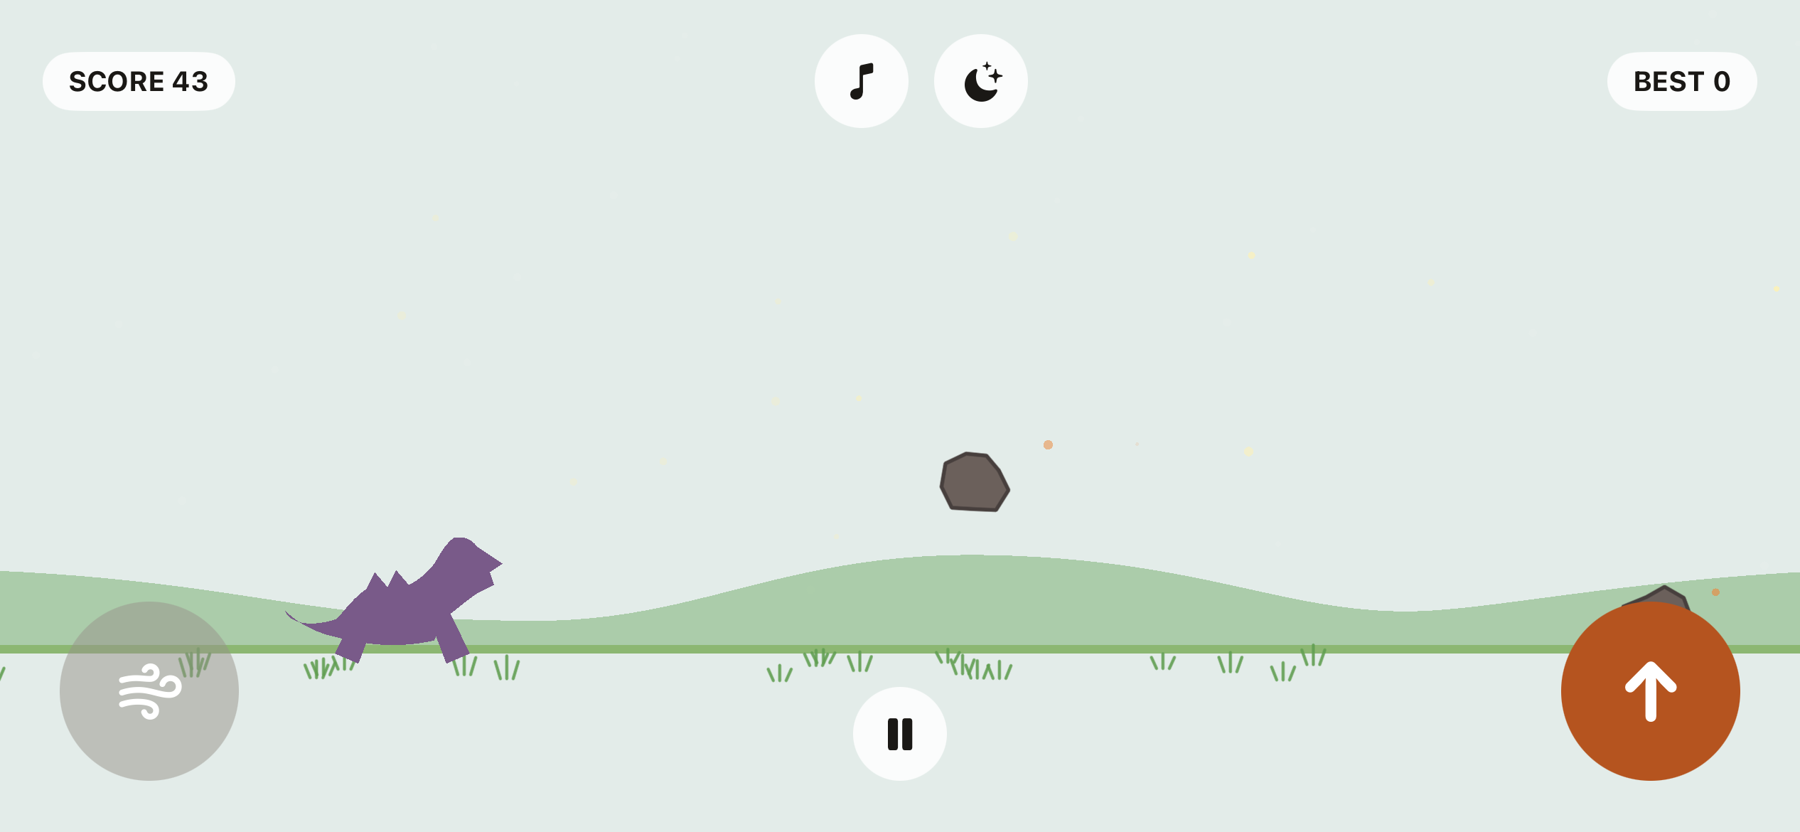
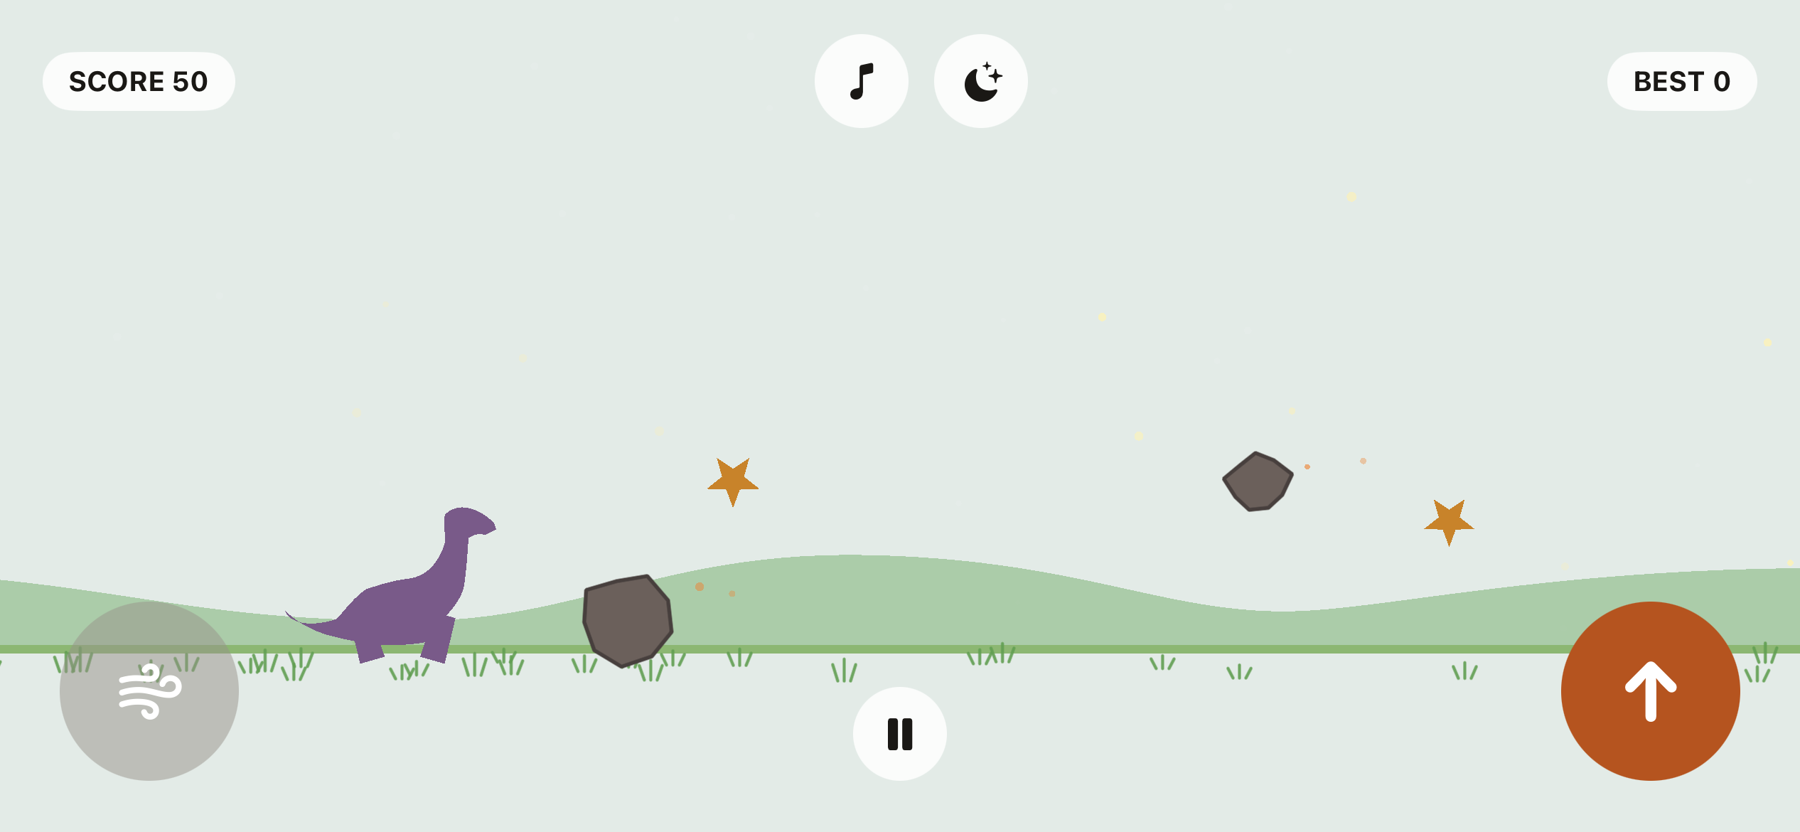
Give the Brachiosaurus a tall upright neck
Redrawn outline with high shoulders, a long neck and a small head so it reads as
a brachiosaurus. Visual only: the physics body is unchanged, so the hitbox and
difficulty are identical across dinos. Preview art and the README grassland
screenshot are updated to match.

diff --git a/DinoDash/Game/Brachiosaurus.swift b/DinoDash/Game/Brachiosaurus.swift
@@ -15,28 +15,38 @@ final class Brachiosaurus: SKNode, PlayableDino {
     private var isRunning = false
 
     override init() {
+        // A Brachiosaurus is all neck: a long, upright neck rising from high shoulders to a small
+        // head (this is what makes it read as a brachio rather than a generic dino). The neck is
+        // purely visual — the physics body below is unchanged, so every dino keeps the same hitbox
+        // and difficulty. Head height is capped just under where elevated asteroids sit.
         let bodyPath = UIBezierPath()
         bodyPath.move(to: CGPoint(x: -52, y: -2))
         bodyPath.addCurve(to: CGPoint(x: -28, y: -6),
                            controlPoint1: CGPoint(x: -50, y: -8), controlPoint2: CGPoint(x: -40, y: -10))
         bodyPath.addCurve(to: CGPoint(x: -14, y: 8),
                            controlPoint1: CGPoint(x: -24, y: -2), controlPoint2: CGPoint(x: -20, y: 4))
-        bodyPath.addLine(to: CGPoint(x: -10, y: 16))
-        bodyPath.addLine(to: CGPoint(x: -4, y: 9))
-        bodyPath.addLine(to: CGPoint(x: 0, y: 17))
-        bodyPath.addLine(to: CGPoint(x: 6, y: 10))
-        bodyPath.addCurve(to: CGPoint(x: 18, y: 20),
-                           controlPoint1: CGPoint(x: 10, y: 12), controlPoint2: CGPoint(x: 14, y: 15))
-        bodyPath.addCurve(to: CGPoint(x: 27, y: 32),
-                           controlPoint1: CGPoint(x: 21, y: 25), controlPoint2: CGPoint(x: 23, y: 29))
-        bodyPath.addCurve(to: CGPoint(x: 38, y: 28),
-                           controlPoint1: CGPoint(x: 31, y: 33), controlPoint2: CGPoint(x: 35, y: 32))
-        bodyPath.addLine(to: CGPoint(x: 50, y: 20))
-        bodyPath.addLine(to: CGPoint(x: 44, y: 16))
-        bodyPath.addLine(to: CGPoint(x: 46, y: 10))
-        bodyPath.addLine(to: CGPoint(x: 38, y: 6))
+        // back, rising to the shoulders
+        bodyPath.addCurve(to: CGPoint(x: 6, y: 13),
+                           controlPoint1: CGPoint(x: -8, y: 10), controlPoint2: CGPoint(x: -2, y: 12))
+        // back of the neck, up to the head
+        bodyPath.addCurve(to: CGPoint(x: 23, y: 30),
+                           controlPoint1: CGPoint(x: 14, y: 14), controlPoint2: CGPoint(x: 20, y: 20))
+        bodyPath.addCurve(to: CGPoint(x: 23, y: 43),
+                           controlPoint1: CGPoint(x: 23, y: 36), controlPoint2: CGPoint(x: 22, y: 40))
+        // head
+        bodyPath.addCurve(to: CGPoint(x: 34, y: 46),
+                           controlPoint1: CGPoint(x: 26, y: 46), controlPoint2: CGPoint(x: 30, y: 47))
+        bodyPath.addCurve(to: CGPoint(x: 46, y: 39),
+                           controlPoint1: CGPoint(x: 39, y: 45), controlPoint2: CGPoint(x: 43, y: 42))
+        bodyPath.addLine(to: CGPoint(x: 47, y: 36))
+        bodyPath.addLine(to: CGPoint(x: 42, y: 33.5))
+        // under the jaw, down the throat to the chest
+        bodyPath.addCurve(to: CGPoint(x: 34, y: 32),
+                           controlPoint1: CGPoint(x: 39, y: 34), controlPoint2: CGPoint(x: 37, y: 34))
+        bodyPath.addCurve(to: CGPoint(x: 32, y: 10),
+                           controlPoint1: CGPoint(x: 33.5, y: 24), controlPoint2: CGPoint(x: 33, y: 17))
         bodyPath.addCurve(to: CGPoint(x: 22, y: -6),
-                           controlPoint1: CGPoint(x: 32, y: 2), controlPoint2: CGPoint(x: 28, y: -2))
+                           controlPoint1: CGPoint(x: 31, y: 4), controlPoint2: CGPoint(x: 26, y: -2))
         bodyPath.addLine(to: CGPoint(x: 18, y: -16))
         bodyPath.addCurve(to: CGPoint(x: -30, y: -14),
                            controlPoint1: CGPoint(x: 0, y: -20), controlPoint2: CGPoint(x: -14, y: -18))

diff --git a/README.md b/README.md
@@ -7,7 +7,7 @@ A simple endless runner for my son — pick a dino (Ankylosaurus by default, or 
   <img src="screenshots/gameplay-desert.png" width="380" alt="Desert world — the Ankylosaurus running past an asteroid with dunes, ground pebbles and foot dust">
 </p>
 <p>
-  <img src="screenshots/gameplay-grassland.png" width="380" alt="Grassland world — the Brachiosaurus jumping over rolling green hills with grass tufts and floating pollen">
+  <img src="screenshots/gameplay-grassland.png" width="380" alt="Grassland world — the long-necked Brachiosaurus running past an asteroid and stars over rolling green hills with grass tufts and floating pollen">
   <img src="screenshots/gameplay-volcanic.png" width="380" alt="Volcanic world — the Stegosaurus running past a lava-edged asteroid and a star, with jagged glowing hills and rising embers">
 </p>
 
